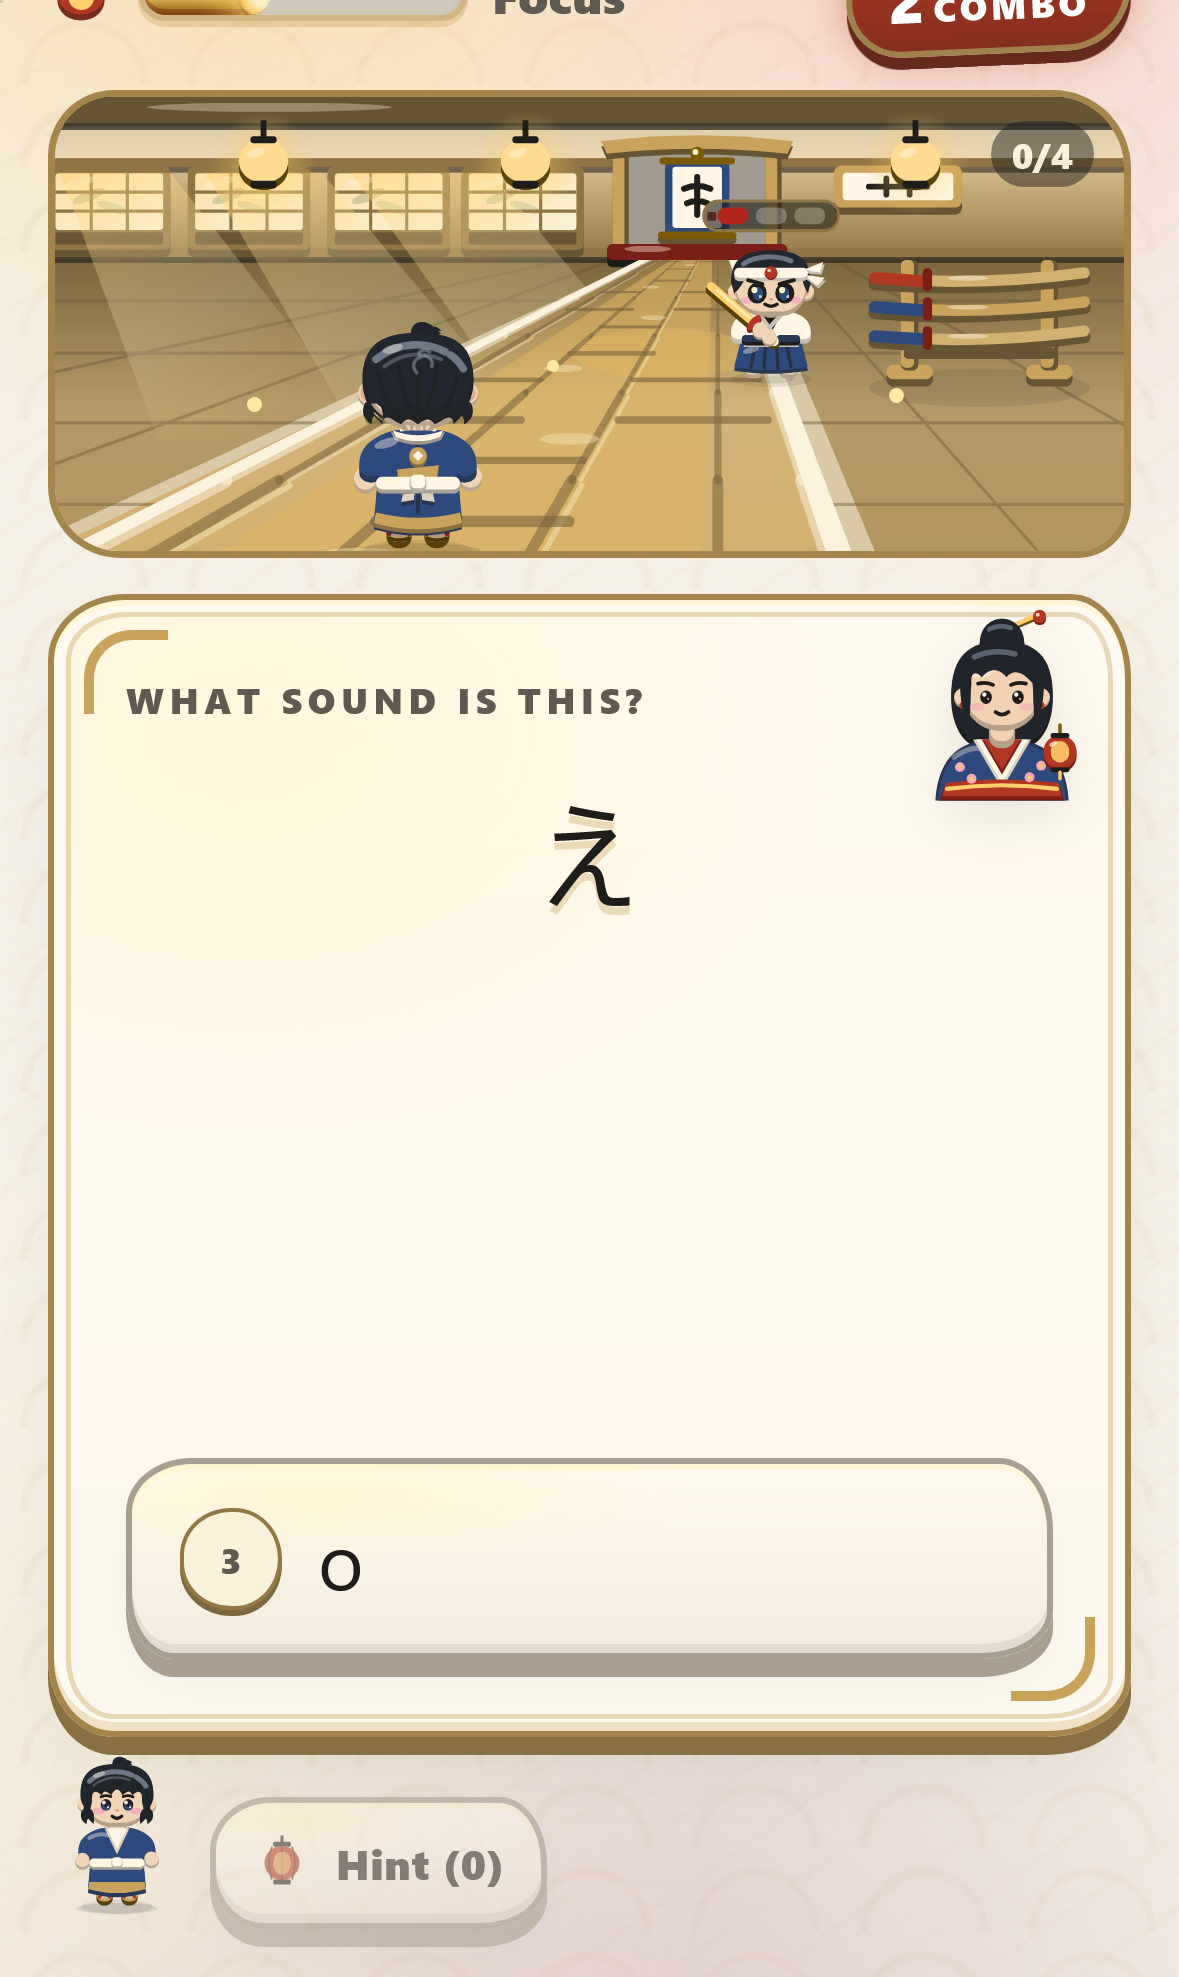
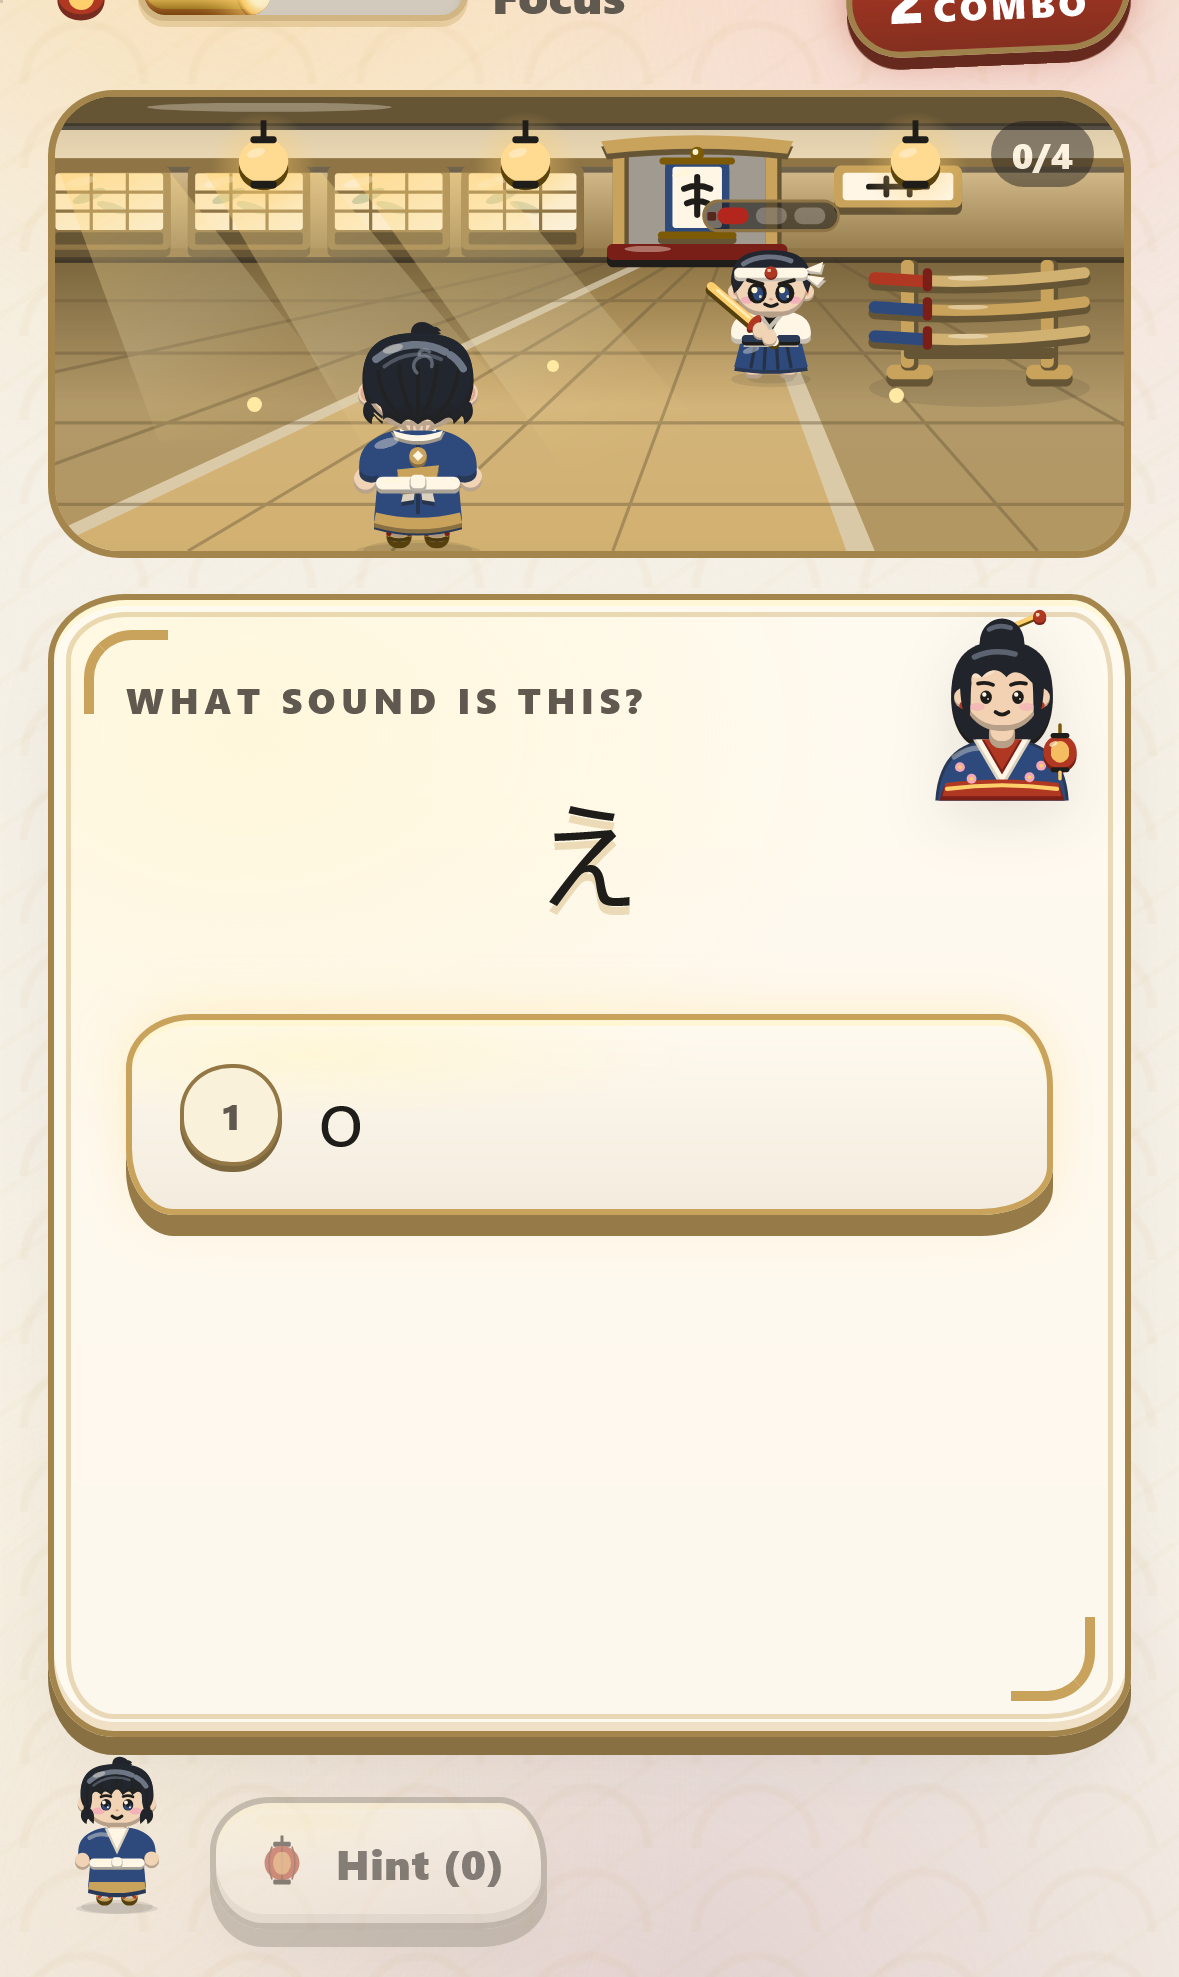
fix: Bamboo props stand on mossy ground; Dojo fights on the hall floor; Musashi bows forward
From the owner's bug list. By Alyssa's AI (Musashi's art by Gemini 4 Argon).
- Path: mossy mounds under the Bamboo Thicket's roadside props, which floated.
- Battle: the road layer maps like the backdrop (slice, not stretch), and the Dojo shows no
  outdoor road strip over its floorboards.

diff --git a/src/features/lesson/BattleStage.tsx b/src/features/lesson/BattleStage.tsx
@@ -1018,109 +1018,123 @@ export function BattleStage({
       )}
 
       {/* Woodland ground & perspective dirt road with flowing stones, markings and edges */}
-      <div className="battle-road">
-        <svg viewBox="0 0 400 156" preserveAspectRatio="none" className="battle-road-svg">
-          <defs>
-            <linearGradient id="battle-grass-grad" x1="0" y1="0" x2="0" y2="1">
-              <stop
-                offset="0"
-                stopColor="color-mix(in srgb, var(--c-success) 52%, var(--c-mountain-near))"
-              />
-              <stop
-                offset="0.45"
-                stopColor="color-mix(in srgb, var(--c-success) 74%, var(--c-hud-bg))"
-              />
-              <stop
-                offset="1"
-                stopColor="color-mix(in srgb, var(--c-success) 60%, var(--c-hud-bg))"
-              />
-            </linearGradient>
-            <linearGradient id="battle-dirt-grad" x1="0" y1="0" x2="0" y2="1">
-              <stop
-                offset="0"
-                stopColor="color-mix(in srgb, var(--c-panel-edge) 58%, var(--c-mountain-near))"
-              />
-              <stop
-                offset="0.48"
-                stopColor="color-mix(in srgb, var(--c-panel-edge) 76%, var(--c-surface-alt))"
-              />
-              <stop
-                offset="1"
-                stopColor="color-mix(in srgb, var(--c-panel-edge) 84%, var(--c-panel))"
-              />
-            </linearGradient>
-            <linearGradient id="battle-dojo-grad" x1="0" y1="0" x2="0" y2="1">
-              <stop
-                offset="0"
-                stopColor="color-mix(in srgb, var(--c-panel-edge) 66%, var(--c-hud-bg))"
-              />
-              <stop
-                offset="0.5"
-                stopColor="color-mix(in srgb, var(--c-panel-edge) 76%, var(--c-surface-alt))"
-              />
-              <stop
-                offset="1"
-                stopColor="color-mix(in srgb, var(--c-panel-edge) 82%, var(--c-gold-soft))"
-              />
-            </linearGradient>
-            <linearGradient id="battle-market-grad" x1="0" y1="0" x2="0" y2="1">
-              <stop
-                offset="0"
-                stopColor="color-mix(in srgb, var(--c-mountain-near) 66%, var(--c-hud-bg))"
-              />
-              <stop
-                offset="0.52"
-                stopColor="color-mix(in srgb, var(--c-fog) 62%, var(--c-surface-alt))"
-              />
-              <stop
-                offset="1"
-                stopColor="color-mix(in srgb, var(--c-border) 68%, var(--c-surface-alt))"
-              />
-            </linearGradient>
-            <clipPath id="battle-road-clip">
-              <path d="M 222.8 56 L 12.8 156 L 288.3 156 L 252.3 56 Z" />
-            </clipPath>
-          </defs>
+      {/* Indoors the hall's own floorboards are the floor: an outdoor road strip on top of them
+          never lined up (owner), so the Dojo has none. */}
+      {region !== 'dojo' && (
+        <div className="battle-road">
+          {/* Same mapping as the backdrop (slice, not stretch), so the floor lines up with the hall at
+            every screen shape. */}
+          <svg
+            viewBox="0 0 400 156"
+            preserveAspectRatio="xMidYMid slice"
+            className="battle-road-svg"
+          >
+            <defs>
+              <linearGradient id="battle-grass-grad" x1="0" y1="0" x2="0" y2="1">
+                <stop
+                  offset="0"
+                  stopColor="color-mix(in srgb, var(--c-success) 52%, var(--c-mountain-near))"
+                />
+                <stop
+                  offset="0.45"
+                  stopColor="color-mix(in srgb, var(--c-success) 74%, var(--c-hud-bg))"
+                />
+                <stop
+                  offset="1"
+                  stopColor="color-mix(in srgb, var(--c-success) 60%, var(--c-hud-bg))"
+                />
+              </linearGradient>
+              <linearGradient id="battle-dirt-grad" x1="0" y1="0" x2="0" y2="1">
+                <stop
+                  offset="0"
+                  stopColor="color-mix(in srgb, var(--c-panel-edge) 58%, var(--c-mountain-near))"
+                />
+                <stop
+                  offset="0.48"
+                  stopColor="color-mix(in srgb, var(--c-panel-edge) 76%, var(--c-surface-alt))"
+                />
+                <stop
+                  offset="1"
+                  stopColor="color-mix(in srgb, var(--c-panel-edge) 84%, var(--c-panel))"
+                />
+              </linearGradient>
+              <linearGradient id="battle-dojo-grad" x1="0" y1="0" x2="0" y2="1">
+                <stop
+                  offset="0"
+                  stopColor="color-mix(in srgb, var(--c-panel-edge) 66%, var(--c-hud-bg))"
+                />
+                <stop
+                  offset="0.5"
+                  stopColor="color-mix(in srgb, var(--c-panel-edge) 76%, var(--c-surface-alt))"
+                />
+                <stop
+                  offset="1"
+                  stopColor="color-mix(in srgb, var(--c-panel-edge) 82%, var(--c-gold-soft))"
+                />
+              </linearGradient>
+              <linearGradient id="battle-market-grad" x1="0" y1="0" x2="0" y2="1">
+                <stop
+                  offset="0"
+                  stopColor="color-mix(in srgb, var(--c-mountain-near) 66%, var(--c-hud-bg))"
+                />
+                <stop
+                  offset="0.52"
+                  stopColor="color-mix(in srgb, var(--c-fog) 62%, var(--c-surface-alt))"
+                />
+                <stop
+                  offset="1"
+                  stopColor="color-mix(in srgb, var(--c-border) 68%, var(--c-surface-alt))"
+                />
+              </linearGradient>
+              <clipPath id="battle-road-clip">
+                <path d="M 222.8 56 L 12.8 156 L 288.3 156 L 252.3 56 Z" />
+              </clipPath>
+            </defs>
 
-          {region === 'bamboo' && (
-            <>
-              {/* Woodland grass hills flanking the road */}
-              <path
-                d="M 0 60 Q 110 52 238 56 Q 330 52 400 60 V 156 H 0 Z"
-                fill="url(#battle-grass-grad)"
-              />
-              {/* Subtle shaded hillside contours on the verges */}
-              <path
-                d="M 0 88 Q 74 82 162 94 L 84 134 L 0 124 Z M 272 88 Q 338 80 400 90 V 126 Q 336 116 280 118 Z"
-                fill="color-mix(in srgb, var(--c-success) 42%, var(--c-hud-bg))"
-                opacity="0.45"
-              />
-            </>
-          )}
+            {region === 'bamboo' && (
+              <>
+                {/* Woodland grass hills flanking the road */}
+                <path
+                  d="M 0 60 Q 110 52 238 56 Q 330 52 400 60 V 156 H 0 Z"
+                  fill="url(#battle-grass-grad)"
+                />
+                {/* Subtle shaded hillside contours on the verges */}
+                <path
+                  d="M 0 88 Q 74 82 162 94 L 84 134 L 0 124 Z M 272 88 Q 338 80 400 90 V 126 Q 336 116 280 118 Z"
+                  fill="color-mix(in srgb, var(--c-success) 42%, var(--c-hud-bg))"
+                  opacity="0.45"
+                />
+              </>
+            )}
 
-          {/* Outer grassy lip / court boundary / stone curb along the perspective trail */}
-          <path d="M 218.5 56 L 2 156 L 298 156 L 256.5 56 Z" fill={roadLipFill} />
-          {/* Main perspective road / floor lane / market street */}
-          <path d="M 222.8 56 L 12.8 156 L 288.3 156 L 252.3 56 Z" fill={roadMainFill} />
-          {/* Warm center ribbon */}
-          <path d="M 230.5 56 L 62 156 L 242 156 L 246 56 Z" fill={roadRibbonFill} opacity="0.55" />
-          {/* Subtle clearing ring where the enemy stands on the upper-mid path */}
-          <ellipse cx="228" cy="88" rx="34" ry="8.5" fill={roadRibbonFill} opacity="0.5" />
+            {/* Outer grassy lip / court boundary / stone curb along the perspective trail */}
+            <path d="M 218.5 56 L 2 156 L 298 156 L 256.5 56 Z" fill={roadLipFill} />
+            {/* Main perspective road / floor lane / market street */}
+            <path d="M 222.8 56 L 12.8 156 L 288.3 156 L 252.3 56 Z" fill={roadMainFill} />
+            {/* Warm center ribbon */}
+            <path
+              d="M 230.5 56 L 62 156 L 242 156 L 246 56 Z"
+              fill={roadRibbonFill}
+              opacity="0.55"
+            />
+            {/* Subtle clearing ring where the enemy stands on the upper-mid path */}
+            <ellipse cx="228" cy="88" rx="34" ry="8.5" fill={roadRibbonFill} opacity="0.5" />
 
-          {/* Perspective-flowing road surface: stones, floorboards or pavers */}
-          <g clipPath="url(#battle-road-clip)">
-            <g transform="translate(248 44)">
-              <g className="battle-road-scroll">
-                {PERSPECTIVE_LEVELS.map(({ scale, variant }) => (
-                  <g key={scale} transform={`scale(${scale})`}>
-                    <RoadPerspectiveBand variant={variant} region={region} />
-                  </g>
-                ))}
+            {/* Perspective-flowing road surface: stones, floorboards or pavers */}
+            <g clipPath="url(#battle-road-clip)">
+              <g transform="translate(248 44)">
+                <g className="battle-road-scroll">
+                  {PERSPECTIVE_LEVELS.map(({ scale, variant }) => (
+                    <g key={scale} transform={`scale(${scale})`}>
+                      <RoadPerspectiveBand variant={variant} region={region} />
+                    </g>
+                  ))}
+                </g>
               </g>
             </g>
-          </g>
-        </svg>
-      </div>
+          </svg>
+        </div>
+      )}
 
       {/* Roadside props on either side of the trail that pass by and grow as they near */}
       {region === 'bamboo' && (

diff --git a/src/features/path/PathScreen.tsx b/src/features/path/PathScreen.tsx
@@ -938,6 +938,39 @@ function RegionScene({
         {/* ---------------- REGION 2: BAMBOO FOREST ROAD ---------------- */}
         {region.id === 'bamboo' && (
           <g>
+            {/* Mossy ground mounds so the roadside props stand on something (owner: they floated) */}
+            {[
+              { x: 332, y: 150, rx: 40, ry: 11 },
+              { x: 68, y: 318, rx: 54, ry: 13 },
+              { x: 332, y: 474, rx: 44, ry: 11 },
+              { x: 40, y: 252, rx: 30, ry: 8 },
+              { x: 346, y: 337, rx: 32, ry: 8 },
+            ].map((m, i) => (
+              <g key={`mound-${i}`}>
+                <ellipse
+                  cx={m.x}
+                  cy={m.y + 3}
+                  rx={m.rx}
+                  ry={m.ry}
+                  fill="color-mix(in srgb, var(--c-success) 52%, var(--c-hud-bg))"
+                />
+                <ellipse
+                  cx={m.x}
+                  cy={m.y}
+                  rx={m.rx}
+                  ry={m.ry}
+                  fill="color-mix(in srgb, var(--c-success-soft) 70%, var(--c-success))"
+                />
+                <ellipse
+                  cx={m.x - m.rx * 0.35}
+                  cy={m.y - m.ry * 0.35}
+                  rx={m.rx * 0.3}
+                  ry={m.ry * 0.28}
+                  fill="var(--c-hud-ink)"
+                  opacity="0.35"
+                />
+              </g>
+            ))}
             {/* Bamboo grove stalks left & right */}
             {[
               { x: 34, y: 120, h: 130, s: 1 },

diff --git a/src/foundations/art/musashi/Body.tsx b/src/foundations/art/musashi/Body.tsx
@@ -188,14 +188,7 @@ function PoseArms({ pose }: { pose: MusashiPose }): JSX.Element {
             transform="rotate(14 50.5 97.2)"
             fill={SKIN_SHADE}
           />
-          <ellipse
-            cx="50.5"
-            cy="95"
-            rx="5"
-            ry="4.2"
-            transform="rotate(14 50.5 95)"
-            fill={SKIN}
-          />
+          <ellipse cx="50.5" cy="95" rx="5" ry="4.2" transform="rotate(14 50.5 95)" fill={SKIN} />
           <ellipse
             cx="69.5"
             cy="97.2"
@@ -204,14 +197,7 @@ function PoseArms({ pose }: { pose: MusashiPose }): JSX.Element {
             transform="rotate(-14 69.5 97.2)"
             fill={SKIN_SHADE}
           />
-          <ellipse
-            cx="69.5"
-            cy="95"
-            rx="5"
-            ry="4.2"
-            transform="rotate(-14 69.5 95)"
-            fill={SKIN}
-          />
+          <ellipse cx="69.5" cy="95" rx="5" ry="4.2" transform="rotate(-14 69.5 95)" fill={SKIN} />
         </g>
 
         {/* Sheathed hilts remain anchored at his left hip without vertical squash */}

diff --git a/src/foundations/art/musashi/Head.tsx b/src/foundations/art/musashi/Head.tsx
@@ -189,10 +189,7 @@ export function Head({ pose }: { pose: MusashiPose }): JSX.Element {
                 fill={INK}
                 transform="translate(0 2.5)"
               />
-              <path
-                d="M34 32 C34 15.5 44.5 9.5 60 9.5 C75.5 9.5 86 15.5 86 32 Z"
-                fill={HAIR_MID}
-              />
+              <path d="M34 32 C34 15.5 44.5 9.5 60 9.5 C75.5 9.5 86 15.5 86 32 Z" fill={HAIR_MID} />
             </g>
           )}
 

diff --git a/src/foundations/art/musashi/musashi.css b/src/foundations/art/musashi/musashi.css
@@ -101,8 +101,7 @@
 
 .musashi-pose-bow .musashi-hip-swords {
   transform-origin: 60px 85px;
-  animation: musashi-bow-hip-keep calc(var(--dur-slow, 420ms) * 1.8) var(--ease, ease-in-out) 1
-    both;
+  animation: musashi-bow-hip-keep calc(var(--dur-slow, 420ms) * 1.8) var(--ease, ease-in-out) 1 both;
 }
 
 .musashi-pose-bow .musashi-head-group {
